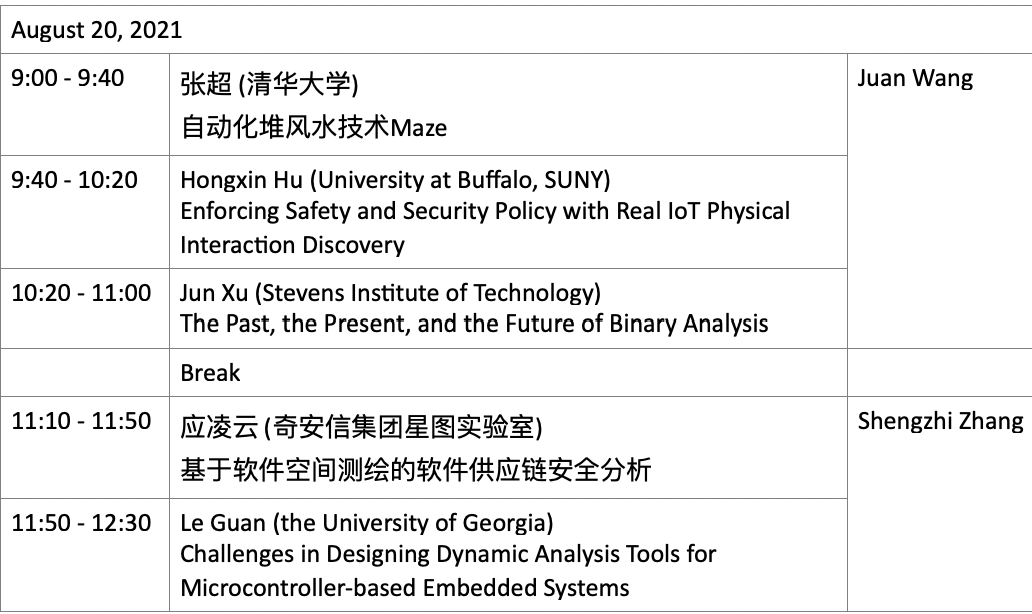
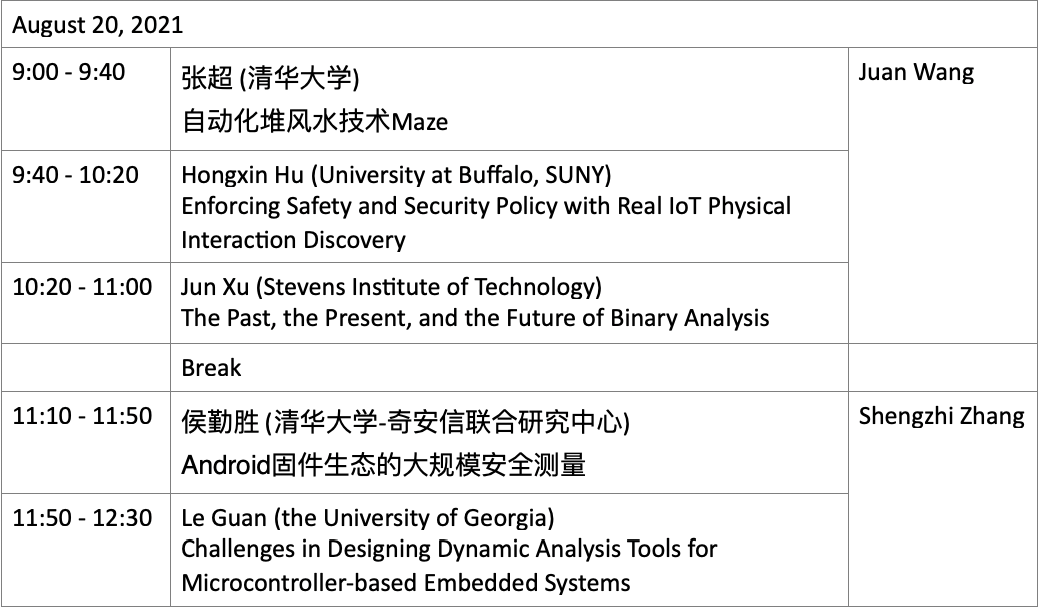
update

Changed region(s): [[0.0, 0.0, 1.0, 1.0], [0.0, 0.8125, 0.062, 0.875], [0.093, 0.8438, 0.124, 0.875]]

diff --git a/CSDP2021/speakers.html b/CSDP2021/speakers.html
@@ -288,7 +288,7 @@
 										<td class="_bio">
 											<!--Dr. <strong>Kai Chen</strong>
 				  is an Professor in .-->
-											<strong>黄欣沂</strong>，福建师范大学计算机与网络空间安全学院教授，博士生导师，
+											<strong>黄欣沂</strong>, 福建师范大学计算机与网络空间安全学院教授，博士生导师，
 											长期从事公钥密码研究，研究工作获教育部自然科学奖一等奖（第3完成人）；
 											担任中国密码学会理事、《中国科学：信息科学》青年编委，AsiaCCS2016等学术会议主席；
 											入选教育部青年长江学者和福建省“百人计划”，主持国家自然科学基金优青项目和重点项目。
@@ -331,8 +331,7 @@
 													<img src="./src/avatar/ShoulingJi.jpeg" alt="Ji Shouling" />
 												</td>
 												<td class="_bio">
-													<strong>纪守领</strong>,
-													浙江大学“百人计划”研究员、
+													<strong>纪守领</strong>, 浙江大学“百人计划”研究员、
 													博士生导师、浙江大学滨江研究院国产信创研究中心副主任，
 													获佐治亚理工学院电子与计算机工程博士学位、
 													佐治亚州立大学计算机科学博士学位，入选国家和省部级人才计划。
@@ -394,6 +393,73 @@
 													Our research can shed light on the hidden privacy risks of VFL and
 													pave the
 													way for new research directions towards more secure VFL.
+											</tr>
+										</table>
+
+
+										<table>
+											<tr>
+												<th colspan="2">Zhiqiang Lin</th>
+												<!--th><span class="fold" title="details">+</span></th-->
+											</tr>
+											<tr>
+												<td class="avatar">
+													<img src="./src/avatar/ZhiqiangLin.jpeg" alt="Zhiqiang Lin" />
+												</td>
+												<td class="_bio">
+													<strong>Dr. Zhiqiang Lin</strong> is Professor of Computer Science
+													and Engineering at The Ohio State University (OSU).
+													His research interest lies in
+													software security and trusted computing (particularly trusted
+													execution environments),
+													with an emphasis on developing
+													automated program analysis (e.g., binary analysis and reverse
+													engineering techniques),
+													system abstractions, and tools,
+													and applying them for securing both the application programs
+													including mobile apps and the underlying systems software
+													such as OS kernels and hypervisors. He is a recipient of NSF CAREER
+													award, AFOSR Young Investigator award, and Faculty
+													Research Awards from Vmware and Amazon.
+													</p>
+												</td>
+											</tr>
+											<tr>
+												<td colspan="2" class="_title">
+													<strong>Title: </strong>
+													SelectiveTaint: Efficient Data Flow Tracking With Static Binary
+													Rewriting
+												</td>
+											</tr>
+											<tr>
+												<td colspan="2" class="_abstract">
+													<strong>Abstract: </strong>
+													Taint analysis has been widely used in many security applications
+													such as exploit detection, information flow tracking,
+													malware analysis, and protocol reverse engineering. State-of-the-art
+													taint analysis tools are usually built atop dynamic
+													binary instrumentation, which instruments at every possible
+													instruction, and rely on runtime information to decide
+													whether a particular instruction involves taint or not, thereby
+													usually having high performance overhead.</p>
+
+													In this talk, Dr. Lin is going to talk about SelectiveTaint, an open
+													source, efficient selective taint analysis
+													framework for binary executables. The key idea is to selectively
+													instrument the instructions involving taint analysis
+													using static binary rewriting instead of dynamic binary
+													instrumentation. At a high level, SelectiveTaint statically
+													scans taint sources of interest in the binary code, leverages value
+													set analysis to conservatively determine whether an
+													instruction operand needs to be tainted or not, and then selectively
+													taints the instructions of interest. SelectiveTaint
+													has been evaluated with a set of binary programs including coreutils
+													(focusing on file I/O) and network daemon programs
+													(focusing on network I/O). The evaluation results show that the
+													binaries statically instrumented by SelectiveTaint has
+													superior performance compared to the state-of-the-art dynamic taint
+													analysis frameworks (e.g., 1.7x faster than that of
+													libdft).
 											</tr>
 										</table>
 

diff --git a/CSDP2021/m/index.html b/CSDP2021/m/index.html
@@ -109,6 +109,12 @@
       "abs": "在这项工作中，我们对Android固件生态系统的安全性进行了大规模的综合测量。我们的研究基于来自100多个供应商的数千个固件映像和几百个相关的CVE。为了自动化完成分析，我们设计了一个分析框架来完成ROM爬取、ROM解析、补丁分析和应用分析。通过海量数据分析和案例探索，我们得到了一些有意义的发现。"
     };
 
+    speaker_inf['Zhiqiang Lin'] = {
+      "bio": "<strong>Dr. Zhiqiang Lin</strong> is Professor of Computer Science and Engineering at The Ohio State University (OSU). His research interest lies in software security and trusted computing (particularly trusted execution environments), with an emphasis on developing automated program analysis (e.g., binary analysis and reverse engineering techniques), system abstractions, and tools, and applying them for securing both the application programs including mobile apps and the underlying systems software such as OS kernels and hypervisors.  He is a recipient of NSF CAREER award, AFOSR Young Investigator award, and Faculty Research Awards from Vmware and Amazon.",
+      "tit": "SelectiveTaint: Efficient Data Flow Tracking With Static Binary Rewriting",
+      "abs": "Taint analysis has been widely used in many security applications such as exploit detection, information flow tracking, malware analysis, and protocol reverse engineering. State-of-the-art taint analysis tools are usually built atop dynamic binary instrumentation, which instruments at every possible instruction, and rely on runtime information to decide whether a particular instruction involves taint or not, thereby usually having high performance overhead. In this talk, Dr.Lin is going to talk about SelectiveTaint, an open source, efficient selective taint analysis framework for binary executables.The key idea is to selectively instrument the instructions involving taint analysis using static binary rewriting instead of dynamic binary instrumentation.At a high level, SelectiveTaint statically scans taint sources of interest in the binary code, leverages value set analysis to conservatively determine whether an instruction operand needs to be tainted or not, and then selectively taints the instructions of interest.SelectiveTaint has been evaluated with a set of binary programs including coreutils(focusing on file I/ O) and network daemon programs(focusing on network I / O).The evaluation results show that the binaries statically instrumented by SelectiveTaint has superior performance compared to the state - of - the - art dynamic taint analysis frameworks(e.g., 1.7x faster than that of libdft)."
+    };
+
 
     function toSpeaker(name) {
       let detail = speaker_inf[name];
@@ -418,6 +424,7 @@
         <li><a href="javascript:toSpeaker('Qinsheng Hou')">Qinsheng Hou</a></li>
         <li><a href="javascript:toSpeaker('Xinyi Huang')">Xinyi Huang</a></li>
         <li><a href="javascript:toSpeaker('Shouling Ji')">Shouling Ji</a></li>
+        <li><a href="javascript:toSpeaker('Zhiqiang Lin')">Zhiqiang Lin</a></li>
         <li><a href="javascript:toSpeaker('Ding Wang')">Ding Wang</a></li>
         <li><a href="javascript:toSpeaker('Jun Xu')">Jun Xu</a></li>
         <!-- <li><a href="javascript:toSpeaker('Lingyun Ying')">Lingyun Ying</a></li> -->
@@ -529,7 +536,7 @@
             会议时间：2021/08/19 08:00-2021/08/20 08:00 (GMT+08:00) 中国标准时间 - 北京<br>
             <br>
             点击链接入会，或添加至会议列表：<br>
-            https://meeting.tencent.com/dm/n3d8YrrpxPH8<br>
+            <a href="https://meeting.tencent.com/dm/n3d8YrrpxPH8">https://meeting.tencent.com/dm/n3d8YrrpxPH8</a><br>
             <br>
             会议 ID：381 873 961<br>
           </td>

diff --git a/CSDP2021/registration.html b/CSDP2021/registration.html
@@ -69,7 +69,8 @@
 											会议时间：2021/08/19 08:00-2021/08/20 08:00 (GMT+08:00) 中国标准时间 - 北京<br>
 											<br>
 											点击链接入会，或添加至会议列表：<br>
-											https://meeting.tencent.com/dm/n3d8YrrpxPH8<br>
+											<a
+												href="https://meeting.tencent.com/dm/n3d8YrrpxPH8">https://meeting.tencent.com/dm/n3d8YrrpxPH8</a><br>
 											<br>
 											会议 ID：381 873 961<br>
 										</td>

diff --git a/CSDP2021/program.html b/CSDP2021/program.html
@@ -76,9 +76,13 @@
 									</tr>
 									<tr>
 										<td class="_col1">9:20 - 10:10</td>
-										</p>
-										<td></strong>(TBD)</strong></td>
-										</p>
+										<td>
+											</p>
+											<strong>Zhiqiang Lin</strong>(Ohio State University)</br>
+											<i>SelectiveTaint: Efficient Data Flow Tracking With Static Binary
+												Rewriting</i>
+											</p>
+										</td>
 									</tr>
 
 									<tr>
